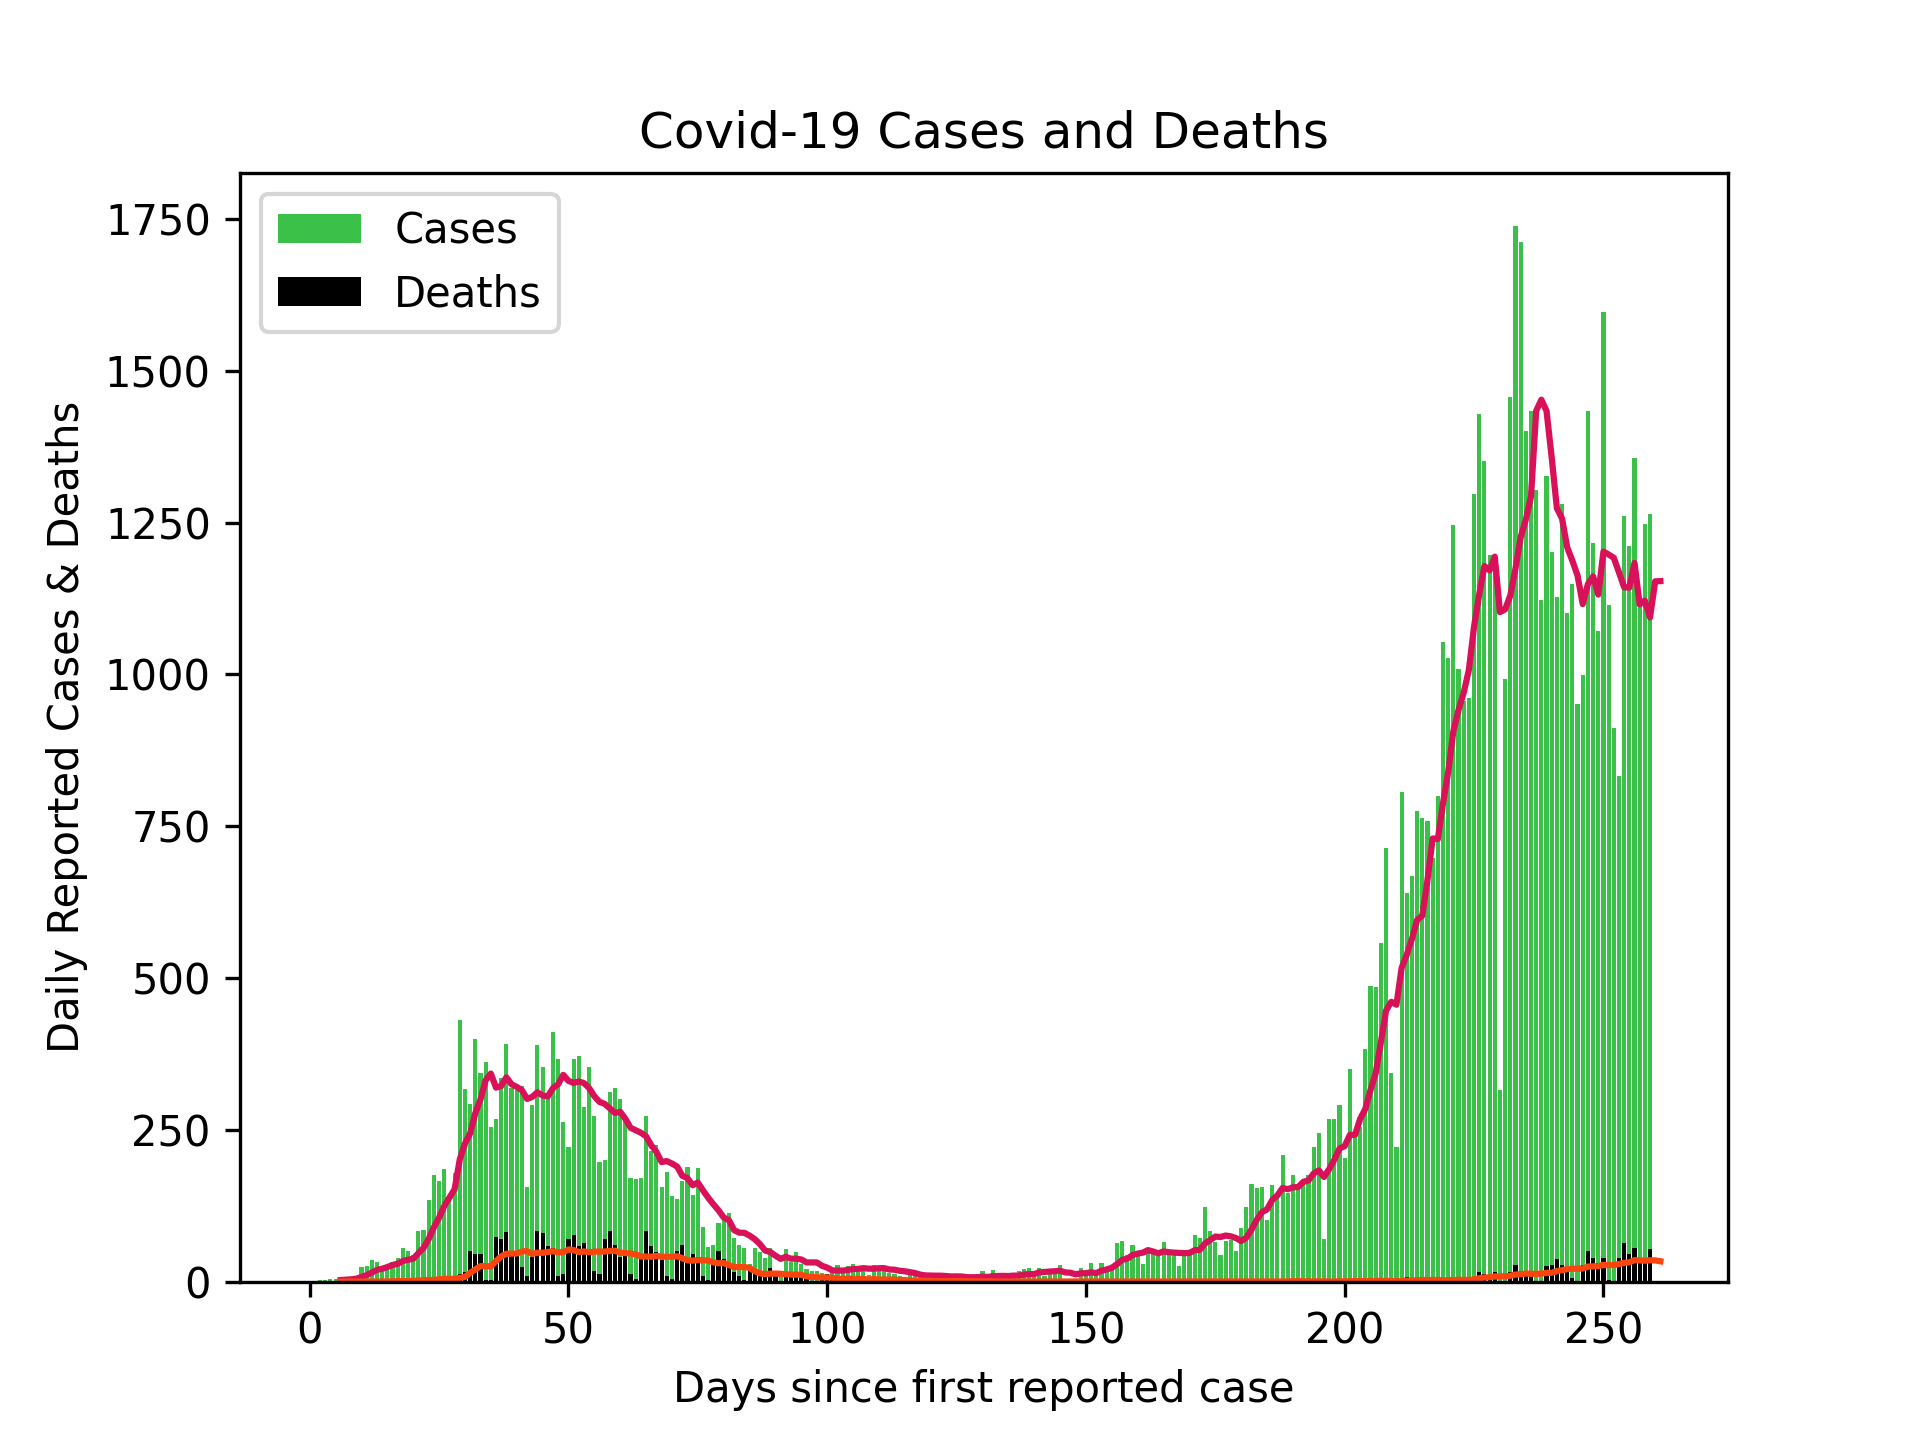
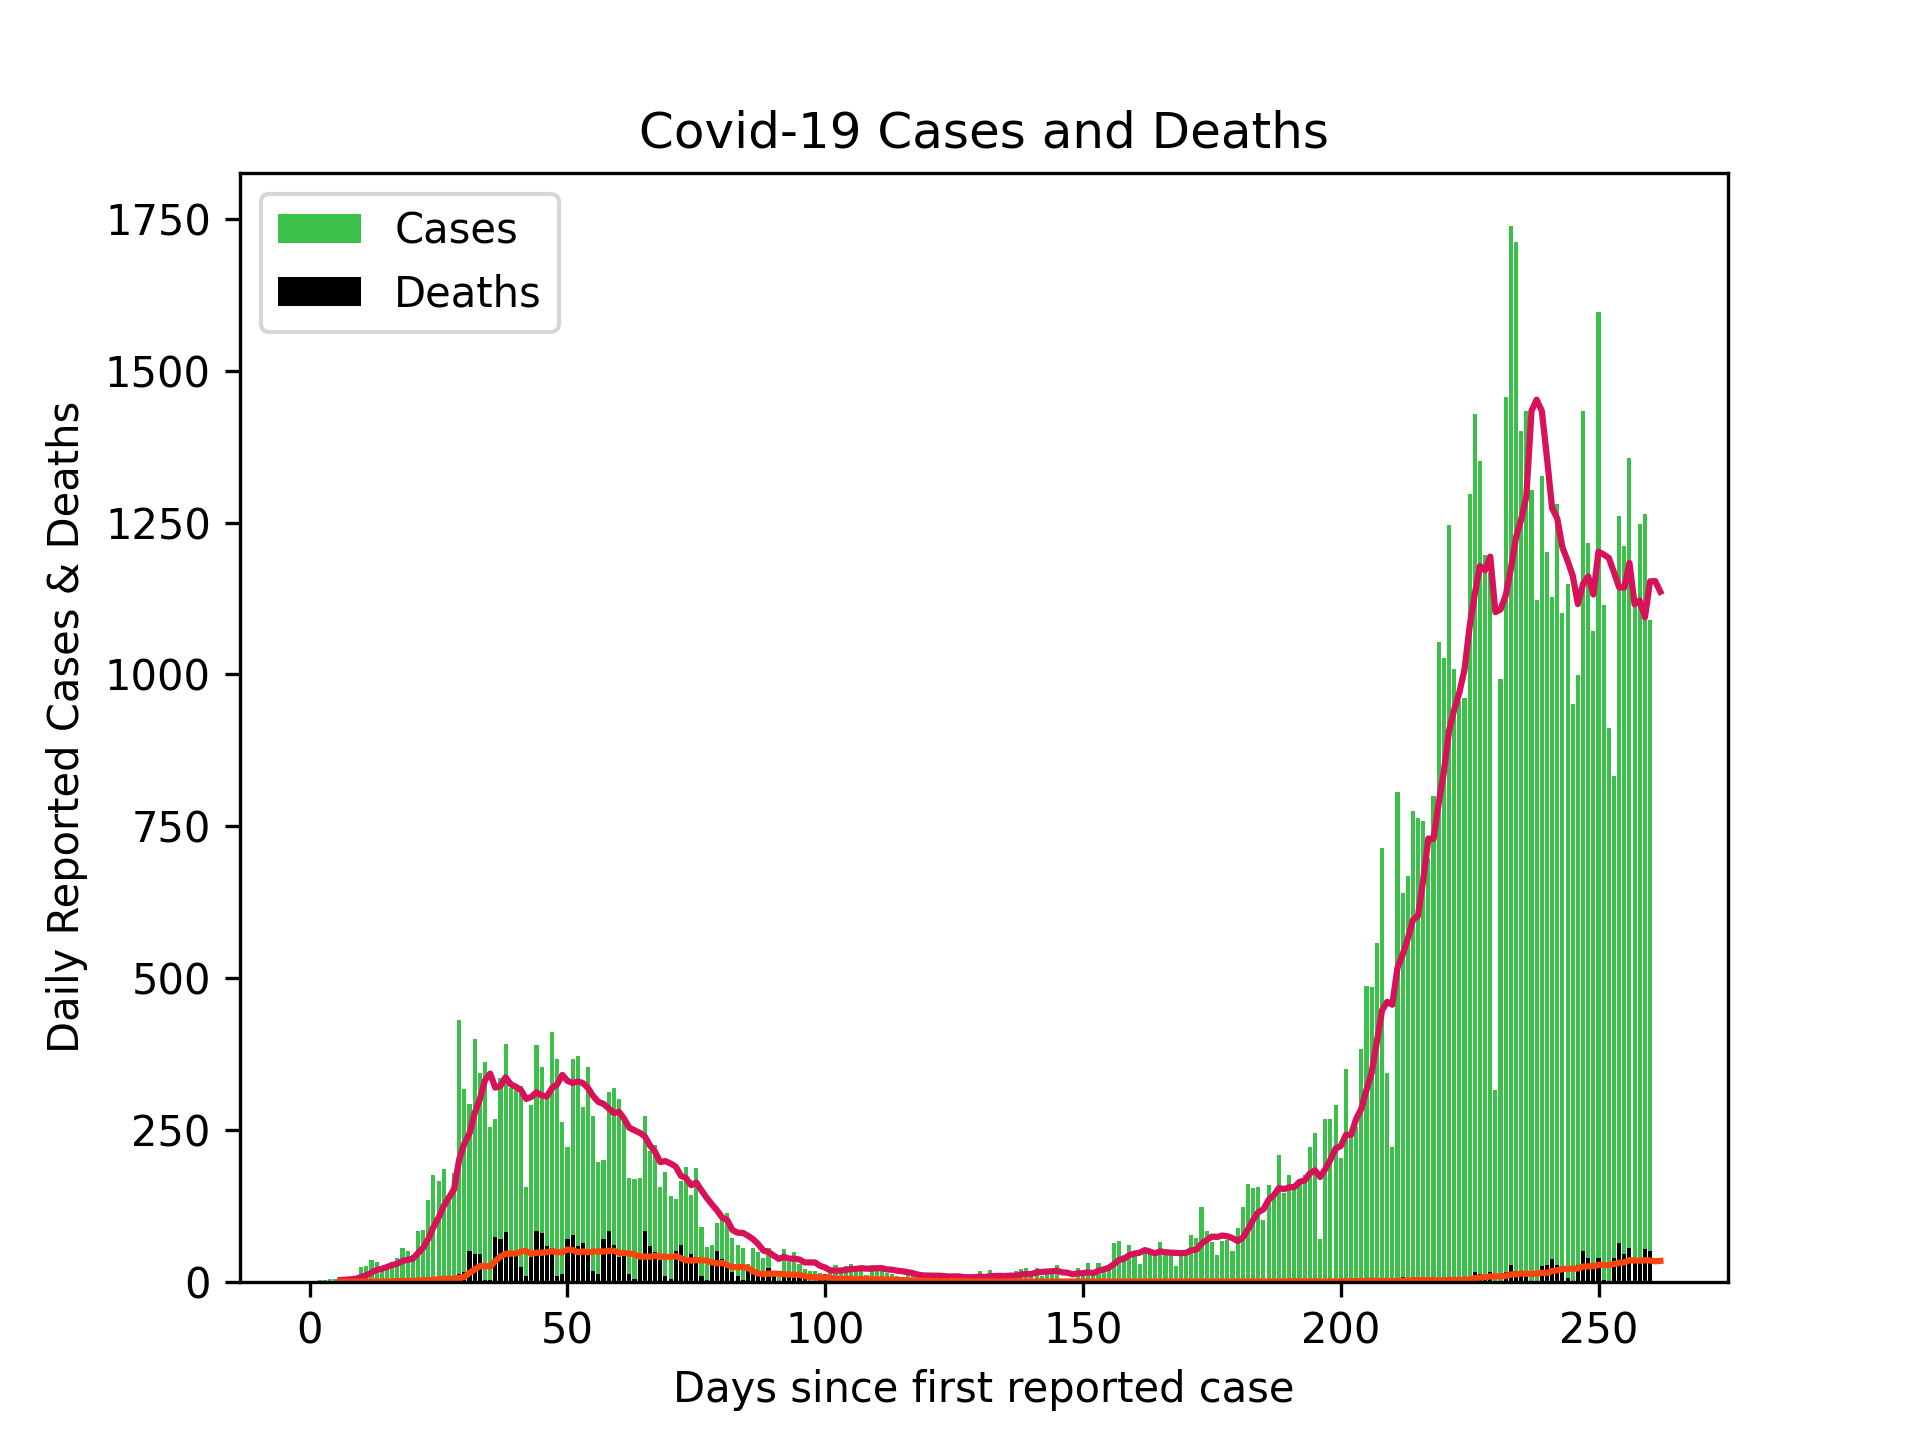
Updated Scottish cases 19/11/20

Changed region(s): [[0.5312, 0.1562, 0.875, 0.9375], [0.2188, 0.7188, 0.4688, 0.9375]]

diff --git a/README.md b/README.md
@@ -1,3 +1,3 @@
-# Scottish Cases 18/11/20
+# Scottish Cases 19/11/20
 ![alt](scottish_cases.png)
 
